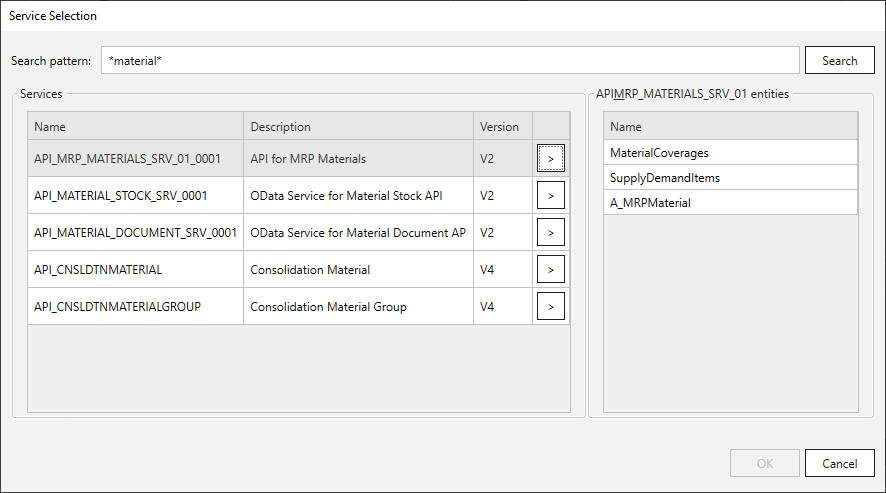
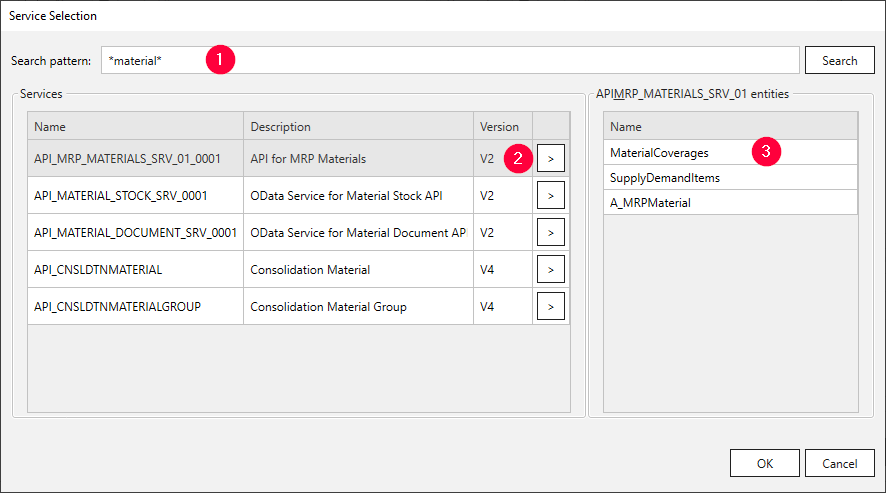
define odata

diff --git a/includes/components/odata/define-an-odata-extraction.md b/includes/components/odata/define-an-odata-extraction.md
@@ -1,39 +1,29 @@
 
 ### Look up OData Services
 
-1. In the main window of the {{ component }}, click **[:magnifying-glass:]**. The window “Operational Data Provider Lookup” opens.<br>
+1. In the main window of the {{ component }}, click **[:magnifying-glass:]**. The window “Service Selection” opens.<br>
 ![Open-Look-Up-ODP](../../assets/images/documentation/components/odata/{{ abbr }}/odata_main-window_add.png){:class="img-responsive"}	
-2. In the field **Name**, enter the name of an extractor :number-1:. Use wildcards (*), if needed.<br>
+2. In the field **Search pattern**, enter the technical service name of an OData V2 service or the service ID of an OData V4 service :number-1:. 
+Use wildcards (*), if needed.<br>
+3. Click **[Search]**. Search results are displayed.
 ![Look-Up-ODP](../../assets/images/documentation/components/odata/odata-lookup.png){:class="img-responsive"}	
-3. Select a *Context* :number-2:. Depending on the connected SAP source system there are differences in available [Provider Contexts](provider-context.md).
-4. Click **[:magnifying-glass:]**. Search results are displayed.
-5. Select an extractor :number-3: and click **[OK]** to confirm.
+4. Click **[:material-greater-than:]** to select a service :number-2:. 
+The SAP objects that are available via the service are displayed in the right screen of the menu:
+5. Select an SAP object :number-3: and click **[OK]** to confirm.
 
 The application now returns to the main window of the {{ component }}.
 
 
 ### Define the {{ odata }} {{ Component }}
 
-The {{ odp }} {{ component }} offers the following options for data extractions:
+The {{ odata }} {{ component }} offers the following options for data extractions:
 
-1. In the section *Fields*, select the items you want to extract.<br>
+1. In the section *Service Fields*, select the items you want to extract.<br>
 ![Datasource Preview](../../assets/images/documentation/components/odata/{{ abbr }}/define-odata.png){:class="img-responsive"}
-
-	!!! note
-		TS_SEQUENCE_NUMBER is a technical primary key that can be added to the output.
-		When working with identical data sets, the data set with the highest sequence number is the most current data set.
-	
-2. Optional: edit a selection you want to change or dynamize. 
-For more information, see [Edit Selections](selections.md/#edit-selections).<br>
-
-	!!! note
-		If your data source is a Hierarchy, see [Hierarchy Segments](provider-context.md/#segments-to-extract) for filter options.
-		
-3. Select an [Update Mode](update-mode.md), e.g., to initialize delta extractions.
-5. Click {{ previewBtn }} to display a live preview of the first 100 records.
-7. Check the [{{ Settings }}](settings.md){% if page.meta.product == "xtract-universal" or page.meta.product == "board-connector"%} and the [General Settings](general-settings.md){% endif %} before running the {{ extraction }}.
-8. Click **[OK]** to save the {{ component }}.
-{% if page.meta.product == "xtract-for-alteryx" %}9. Optional: Check the column name style and date conversion options in the [tool configuration](tool-configuration.md) of the {{ component }}. {% endif %}
+2. Click **[Load Preview]** to display a live preview of the first 100 records.
+{% if page.meta.product == "xtract-universal" or page.meta.product == "board-connector"%}3. Check the [General Settings](general-settings.md) before running the {{ extraction }}.{% endif %}
+3. Click **[OK]** to save the {{ component }}.
+{% if page.meta.product == "xtract-for-alteryx" %}4. Optional: Check the column name style and date conversion options in the [tool configuration](tool-configuration.md) of the {{ component }}. {% endif %}
 
 
 You can now run the {{ extraction }}{% if page.meta.product == "xtract-universal" %}, see [Execute and Automate Extractions](../execute-and-automate/index.md){% elif page.meta.product == "board-connector" %}, see [Run Extractions](../run-extractions.md){% elif page.meta.product == "board-connector" %}, see [Run Extractions](../run-extractions.md){% endif %}.

diff --git a/includes/components/odata/about-odata.md b/includes/components/odata/about-odata.md
@@ -6,7 +6,7 @@ You can build OData services in SAP using the [SAP Gateway Service Builder](http
 
 The OData (Open Data) protocol defines a set of rules to create, edit and consume resources through RESTful interfaces (HTTP requests).
 Furthermore, the OData protocol describes the data and the data model, meaning the data has its respective metadata, with column name, description, length and data type.
-OData can also be used to track changes (deltas), create and run procedures, and send asynchronous/batch requests.
+<!--- OData can also be used to track changes (deltas), create and run procedures, and send asynchronous/batch requests. -->
 
 The {{ odata }} {{ component }} supports [OData V2](https://www.odata.org/documentation/odata-version-2-0/overview/) and [OData V4](https://www.odata.org/documentation/)
 

diff --git a/projects/xtract-universal/docs/documentation/odata/index.md b/projects/xtract-universal/docs/documentation/odata/index.md
@@ -8,6 +8,11 @@ status: beta
 This page shows how to use the {{ odata }} {{ component }}.<br>
 The {{ odata }} {{ component }} can be used to extract data provided by SAP OData services.
 
+!!! note
+	This {{ component }} ist still in **beta** phase.
+	This means, the {{ odata }} {{ component }} is subject to change. 
+	Extractions that use the {{ odata }} {{ component }} can stop working with future updates and might require manual changes.
+	
 {% include "components/odata/about-odata.md" %}
 
 {% include "components/odata/prerequisites.md" %}
@@ -15,3 +20,4 @@ The {{ odata }} {{ component }} can be used to extract data provided by SAP ODat
 {% include "components/xu-bc-new.md" %}
 
 {% include "components/odata/define-an-odata-extraction.md" %}
+

diff --git a/projects/board-connector/docs/getting-started.md b/projects/board-connector/docs/getting-started.md
@@ -1,15 +1,7 @@
----
-title: Getting Started
-description: Learn how to install and create extractions with Xtract Universal.
-hide:
-  - navigation
-  - tags
-tags:
-  - quickstart
-  - quick start  
----
 
-![img](site:assets/images/logos/theo-thumbs.png){ .lg .middle width="30px"} This section shows how to install and set up {{ productName }} for the first time. 
+# Title
 
-{% include "xu-bc-getting-started.md" %}
+This is a test
+![alt text](assets/images/documentation/components/edit-selections-xis.png)
 
+[text](troubleshooting.md)
